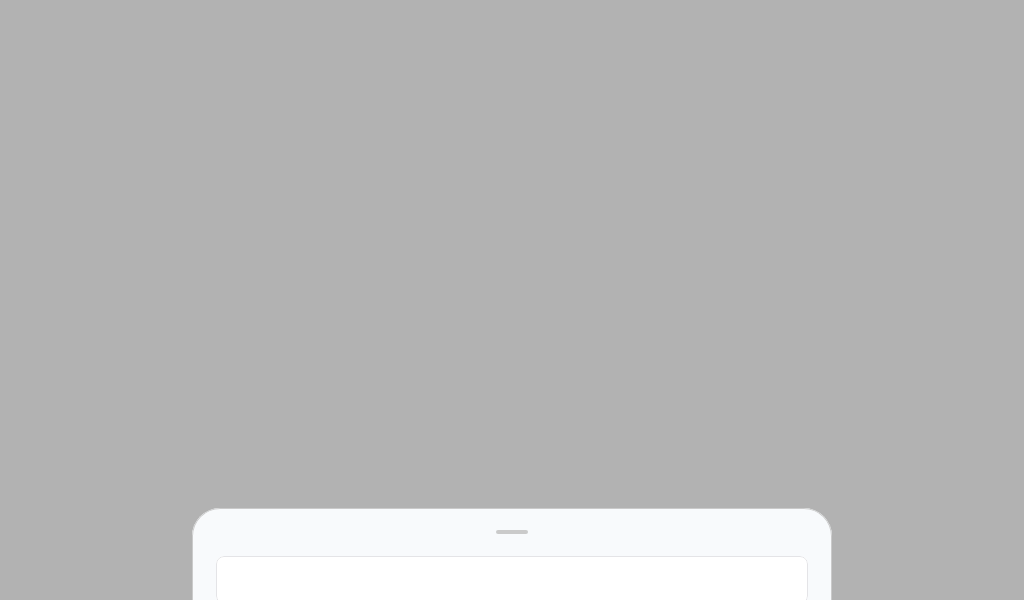
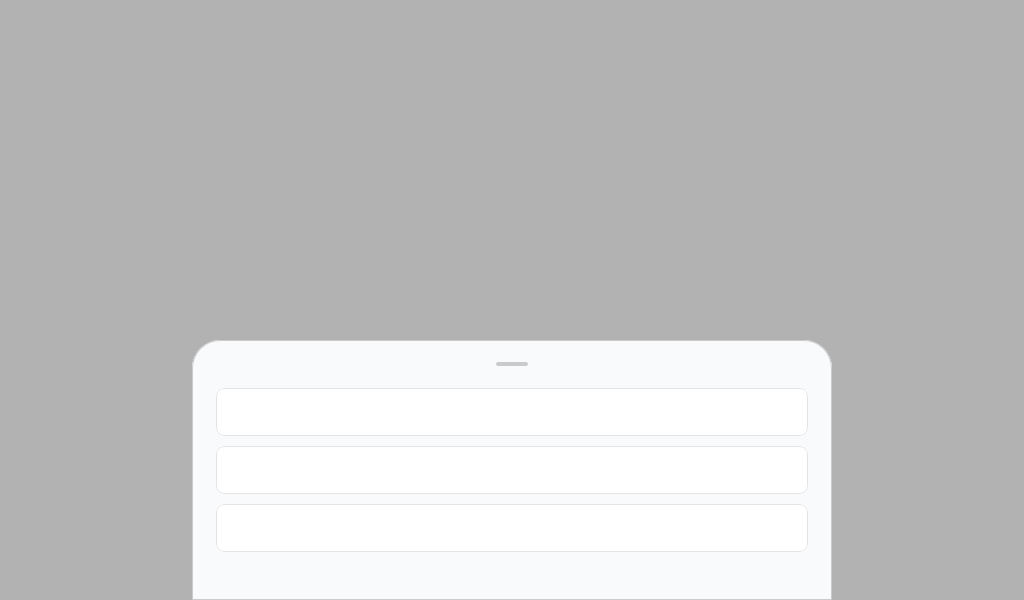
Render expanded sheet regressions inside screenshot root

Changed region(s): [[0.1875, 0.57, 0.8125, 0.9], [0.1875, 0.99, 0.8125, 1.0]]

diff --git a/demo/src/commonMain/kotlin/ModalBottomSheetExpandedReproScaffold.kt b/demo/src/commonMain/kotlin/ModalBottomSheetExpandedReproScaffold.kt
@@ -21,11 +21,10 @@
  */
 package com.composeunstyled.demo
 
-import androidx.compose.animation.fadeIn
-import androidx.compose.animation.fadeOut
 import androidx.compose.foundation.background
 import androidx.compose.foundation.border
 import androidx.compose.foundation.layout.Box
+import androidx.compose.foundation.layout.fillMaxSize
 import androidx.compose.foundation.layout.fillMaxWidth
 import androidx.compose.foundation.layout.height
 import androidx.compose.foundation.layout.padding
@@ -38,54 +37,53 @@ import androidx.compose.ui.Modifier
 import androidx.compose.ui.draw.clip
 import androidx.compose.ui.graphics.Color
 import androidx.compose.ui.unit.dp
-import com.composeunstyled.Scrim
 import com.composeunstyled.Sheet
 import com.composeunstyled.SheetDetent
-import com.composeunstyled.UnstyledModalBottomSheet
-import com.composeunstyled.rememberModalBottomSheetState
+import com.composeunstyled.UnstyledBottomSheet
+import com.composeunstyled.rememberBottomSheetState
 
 @Composable
 internal fun ModalBottomSheetExpandedReproScaffold(
   content: @Composable () -> Unit,
 ) {
-  val sheetState = rememberModalBottomSheetState(
+  val sheetState = rememberBottomSheetState(
     initialDetent = SheetDetent.FullyExpanded,
     detents = listOf(SheetDetent.Hidden, SheetDetent.FullyExpanded),
   )
 
-  UnstyledModalBottomSheet(
-    state = sheetState,
-    overlay = {
-      Scrim(
-        scrimColor = Color.Black.copy(0.3f),
-        enter = fadeIn(),
-        exit = fadeOut(),
-      )
-    },
+  Box(
+    modifier = Modifier
+      .fillMaxSize()
+      .background(Color.Black.copy(0.3f)),
   ) {
-    Box(
-      modifier = Modifier.fillMaxWidth(),
-      contentAlignment = Alignment.TopCenter,
+    UnstyledBottomSheet(
+      state = sheetState,
+      modifier = Modifier.fillMaxSize(),
     ) {
-      Sheet(
-        modifier = Modifier
-          .widthIn(max = 640.dp)
-          .fillMaxWidth()
-          .clip(RoundedCornerShape(topStart = 28.dp, topEnd = 28.dp))
-          .background(Color(0xFFF8FAFC))
-          .border(1.dp, Color(0xFFCACACA), RoundedCornerShape(topStart = 28.dp, topEnd = 28.dp)),
+      Box(
+        modifier = Modifier.fillMaxWidth(),
+        contentAlignment = Alignment.TopCenter,
       ) {
-        Box(Modifier.fillMaxWidth()) {
-          content()
-          Box(
-            Modifier.fillMaxWidth().padding(top = 22.dp),
-            contentAlignment = Alignment.Center,
-          ) {
+        Sheet(
+          modifier = Modifier
+            .widthIn(max = 640.dp)
+            .fillMaxWidth()
+            .clip(RoundedCornerShape(topStart = 28.dp, topEnd = 28.dp))
+            .background(Color(0xFFF8FAFC))
+            .border(1.dp, Color(0xFFCACACA), RoundedCornerShape(topStart = 28.dp, topEnd = 28.dp)),
+        ) {
+          Box(Modifier.fillMaxWidth()) {
+            content()
             Box(
-              modifier = Modifier
-                .background(Color(0xFFCACACA), RoundedCornerShape(100))
-                .size(32.dp, 4.dp),
-            )
+              Modifier.fillMaxWidth().padding(top = 22.dp),
+              contentAlignment = Alignment.Center,
+            ) {
+              Box(
+                modifier = Modifier
+                  .background(Color(0xFFCACACA), RoundedCornerShape(100))
+                  .size(32.dp, 4.dp),
+              )
+            }
           }
         }
       }